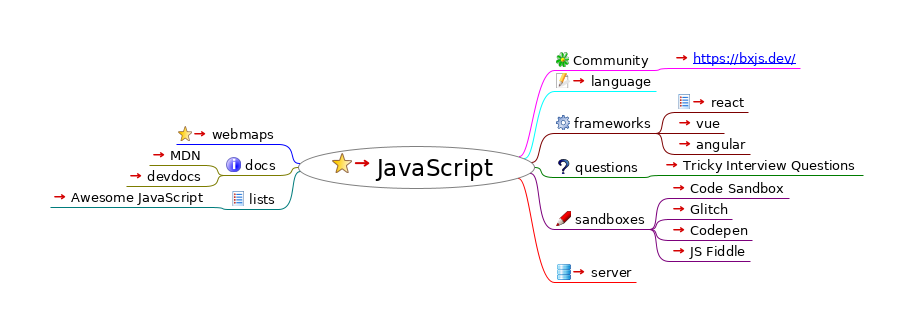
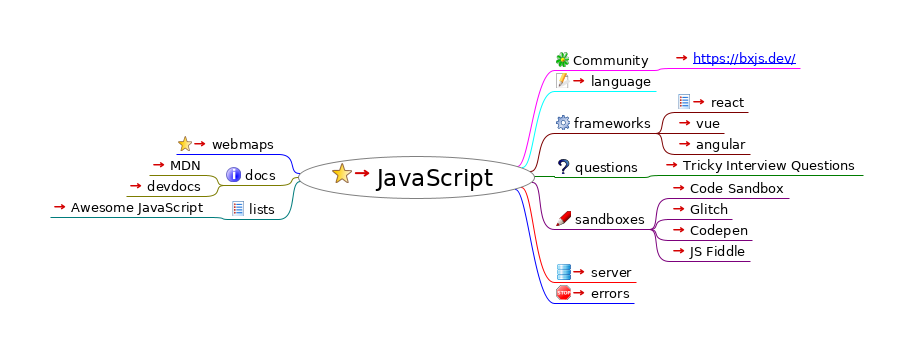
add iterators

Changed region(s): [[0.0613, 0.1506, 0.9507, 0.8735], [0.3987, 0.4217, 0.5214, 0.4518]]

diff --git a/index.html b/index.html
@@ -23,13 +23,13 @@
                    };
                };
           
-          --></script></head><body><h1>JavaScript</h1><div style="width:96%;  padding:2%;  margin-bottom:10px;  border: 0px;  text-align:center;  vertical-align:center;"><img src="index.html_files/image.png" style="margin-bottom:10px; &#9;border: 0px; &#9;text-align:center; &#9;vertical-align:center;" alt="Imagemap" usemap="#fm_imagemap" /></div><map name="fm_imagemap" id="fm_imagemap"><area shape="rect" href="../tech/index.html" alt="JavaScript" title="JavaScript" coords="298,146,535,189" />
-<area shape="rect" href="https://github.com/solidpayorg/webmaps/" alt="webmaps" title="webmaps" coords="176,126,279,144" />
-<area shape="rect" href="#FMID_1425964050FM" alt="docs" title="docs" coords="224,157,279,175" />
-<area shape="rect" href="https://developer.mozilla.org/en-US/docs/Web/JavaScript" alt="MDN" title="MDN" coords="149,147,205,165" />
-<area shape="rect" href="https://devdocs.io/javascript/" alt="devdocs" title="devdocs" coords="126,168,205,186" />
-<area shape="rect" href="#FMID_829378880FM" alt="lists" title="lists" coords="229,191,279,209" />
-<area shape="rect" href="https://github.com/sorrycc/awesome-javascript" alt="Awesome JavaScript" title="Awesome JavaScript" coords="50,189,210,207" />
+          --></script></head><body><h1>JavaScript</h1><div style="width:96%;  padding:2%;  margin-bottom:10px;  border: 0px;  text-align:center;  vertical-align:center;"><img src="index.html_files/image.png" style="margin-bottom:10px; &#9;border: 0px; &#9;text-align:center; &#9;vertical-align:center;" alt="Imagemap" usemap="#fm_imagemap" /></div><map name="fm_imagemap" id="fm_imagemap"><area shape="rect" href="../tech/index.html" alt="JavaScript" title="JavaScript" coords="298,156,535,199" />
+<area shape="rect" href="https://github.com/solidpayorg/webmaps/" alt="webmaps" title="webmaps" coords="176,136,279,154" />
+<area shape="rect" href="#FMID_1425964050FM" alt="docs" title="docs" coords="224,167,279,185" />
+<area shape="rect" href="https://developer.mozilla.org/en-US/docs/Web/JavaScript" alt="MDN" title="MDN" coords="149,157,205,175" />
+<area shape="rect" href="https://devdocs.io/javascript/" alt="devdocs" title="devdocs" coords="126,178,205,196" />
+<area shape="rect" href="#FMID_829378880FM" alt="lists" title="lists" coords="229,201,279,219" />
+<area shape="rect" href="https://github.com/sorrycc/awesome-javascript" alt="Awesome JavaScript" title="Awesome JavaScript" coords="50,199,210,217" />
 <area shape="rect" href="#FMID_849215328FM" alt="Community" title="Community" coords="554,52,653,70" />
 <area shape="rect" href="https://bxjs.dev/" alt="https://bxjs.dev/" title="https://bxjs.dev/" coords="672,50,800,68" />
 <area shape="rect" href="language.html" alt="language" title="language" coords="554,73,656,91" />
@@ -45,9 +45,10 @@
 <area shape="rect" href="https://codepen.io/" alt="Codepen" title="Codepen" coords="669,222,752,240" />
 <area shape="rect" href="https://jsfiddle.net/" alt="JS Fiddle" title="JS Fiddle" coords="669,243,750,261" />
 <area shape="rect" href="server/index.html" alt="server" title="server" coords="554,264,636,282" />
+<area shape="rect" href="https://blog.appsignal.com/2019/10/17/javascript-errors-an-exceptional-history.html" alt="errors" title="errors" coords="554,285,634,303" />
 </map>
 
 <div class="node"><img src="index.html_files/hide.png" class="hideshow" alt="hide" onClick="toggle(&quot;N65543&quot;)" id="imgN65543" /><img src="index.html_files/icons/bookmark.svg" alt="bookmark" /> <a id="FMID_110073400FM" /><div class="nodecontent" style="color:#000000;font-size:150%;"><a href="../tech/index.html">JavaScript</a> <a href="../tech/index.html"><img src="index.html_files/ilink.png" alt="User Link" style="border-width:0" /></a></div><div class="content" id="N65543"><div class="node"><img src="index.html_files/leaf.png" class="hideshow" alt="leaf" /><img src="index.html_files/icons/bookmark.svg" alt="bookmark" /> <a id="FMID_634574866FM" /><div class="nodecontent" style="color:#000000;font-size:83%;"><a href="https://github.com/solidpayorg/webmaps/">webmaps</a> <a href="https://github.com/solidpayorg/webmaps/"><img src="index.html_files/ilink.png" alt="User Link" style="border-width:0" /></a></div></div><div class="node"><img src="index.html_files/hide.png" class="hideshow" alt="hide" onClick="toggle(&quot;N66488&quot;)" id="imgN66488" /><img src="index.html_files/icons/info.svg" alt="info" /> <a id="FMID_1425964050FM" /><div class="nodecontent" style="color:#000000;font-size:83%;">docs</div><div class="content" id="N66488"><div class="node"><img src="index.html_files/leaf.png" class="hideshow" alt="leaf" /><a id="FMID_773205118FM" /><div class="nodecontent" style="color:#000000;font-size:83%;"><a href="https://developer.mozilla.org/en-US/docs/Web/JavaScript">MDN</a> <a href="https://developer.mozilla.org/en-US/docs/Web/JavaScript"><img src="index.html_files/ilink.png" alt="User Link" style="border-width:0" /></a></div></div><div class="node"><img src="index.html_files/leaf.png" class="hideshow" alt="leaf" /><a id="FMID_83129282FM" /><div class="nodecontent" style="color:#000000;font-size:83%;"><a href="https://devdocs.io/javascript/">devdocs</a> <a href="https://devdocs.io/javascript/"><img src="index.html_files/ilink.png" alt="User Link" style="border-width:0" /></a></div></div></div></div><div class="node"><img src="index.html_files/hide.png" class="hideshow" alt="hide" onClick="toggle(&quot;N66604&quot;)" id="imgN66604" /><img src="index.html_files/icons/list.svg" alt="list" /> <a id="FMID_829378880FM" /><div class="nodecontent" style="color:#000000;font-size:83%;">lists</div><div class="content" id="N66604"><div class="node"><img src="index.html_files/leaf.png" class="hideshow" alt="leaf" /><a id="FMID_157748484FM" /><div class="nodecontent" style="color:#000000;font-size:83%;"><a href="https://github.com/sorrycc/awesome-javascript">Awesome JavaScript</a> <a href="https://github.com/sorrycc/awesome-javascript"><img src="index.html_files/ilink.png" alt="User Link" style="border-width:0" /></a></div></div></div></div><div class="node"><img src="index.html_files/hide.png" class="hideshow" alt="hide" onClick="toggle(&quot;N66683&quot;)" id="imgN66683" /><img src="index.html_files/icons/licq.svg" alt="licq" /> <a id="FMID_849215328FM" /><div class="nodecontent" style="color:#000000;font-size:83%;">Community</div><div class="content" id="N66683"><div class="node"><img src="index.html_files/leaf.png" class="hideshow" alt="leaf" /><a id="FMID_1384859362FM" /><div class="nodecontent" style="color:#000000;font-size:83%;"><a href="https://bxjs.dev/">
     <a http-equiv="content-type" content="text/html; charset=utf-8" href="https://bxjs.dev/">https://bxjs.dev/</a>
-  </a> <a href="https://bxjs.dev/"><img src="index.html_files/ilink.png" alt="User Link" style="border-width:0" /></a></div></div></div></div><div class="node"><img src="index.html_files/leaf.png" class="hideshow" alt="leaf" /><img src="index.html_files/icons/edit.svg" alt="edit" /> <a id="FMID_1566689685FM" /><div class="nodecontent" style="color:#000000;font-size:83%;"><a href="language.html">language</a> <a href="language.html"><img src="index.html_files/ilink.png" alt="User Link" style="border-width:0" /></a></div></div><div class="node"><img src="index.html_files/hide.png" class="hideshow" alt="hide" onClick="toggle(&quot;N66823&quot;)" id="imgN66823" /><img src="index.html_files/icons/executable.svg" alt="executable" /> <a id="FMID_153818301FM" /><div class="nodecontent" style="color:#000000;font-size:83%;">frameworks</div><div class="content" id="N66823"><div class="node"><img src="index.html_files/leaf.png" class="hideshow" alt="leaf" /><img src="index.html_files/icons/list.svg" alt="list" /> <a id="FMID_921980201FM" /><div class="nodecontent" style="color:#000000;font-size:83%;"><a href="react/index.html">react</a> <a href="react/index.html"><img src="index.html_files/ilink.png" alt="User Link" style="border-width:0" /></a></div></div><div class="node"><img src="index.html_files/leaf.png" class="hideshow" alt="leaf" /><a id="FMID_850712897FM" /><div class="nodecontent" style="color:#000000;font-size:83%;"><a href="https://vuejs.org/">vue</a> <a href="https://vuejs.org/"><img src="index.html_files/ilink.png" alt="User Link" style="border-width:0" /></a></div></div><div class="node"><img src="index.html_files/leaf.png" class="hideshow" alt="leaf" /><a id="FMID_101804111FM" /><div class="nodecontent" style="color:#000000;font-size:83%;"><a href="https://angular.io/">angular</a> <a href="https://angular.io/"><img src="index.html_files/ilink.png" alt="User Link" style="border-width:0" /></a></div></div></div></div><div class="node"><img src="index.html_files/hide.png" class="hideshow" alt="hide" onClick="toggle(&quot;N66981&quot;)" id="imgN66981" /><img src="index.html_files/icons/help.svg" alt="help" /> <a id="FMID_1450636763FM" /><div class="nodecontent" style="color:#000000;font-size:83%;">questions</div><div class="content" id="N66981"><div class="node"><img src="index.html_files/leaf.png" class="hideshow" alt="leaf" /><a id="FMID_83102648FM" /><div class="nodecontent" style="color:#000000;font-size:83%;"><a href="https://dmitripavlutin.com/simple-but-tricky-javascript-interview-questions/">Tricky Interview Questions</a> <a href="https://dmitripavlutin.com/simple-but-tricky-javascript-interview-questions/"><img src="index.html_files/ilink.png" alt="User Link" style="border-width:0" /></a></div></div></div></div><div class="node"><img src="index.html_files/hide.png" class="hideshow" alt="hide" onClick="toggle(&quot;N67060&quot;)" id="imgN67060" /><img src="index.html_files/icons/pencil.svg" alt="pencil" /> <a id="FMID_1460537766FM" /><div class="nodecontent" style="color:#000000;font-size:83%;">sandboxes</div><div class="content" id="N67060"><div class="node"><img src="index.html_files/leaf.png" class="hideshow" alt="leaf" /><a id="FMID_899668548FM" /><div class="nodecontent" style="color:#000000;font-size:83%;"><a href="https://codesandbox.io/">Code Sandbox</a> <a href="https://codesandbox.io/"><img src="index.html_files/ilink.png" alt="User Link" style="border-width:0" /></a></div></div><div class="node"><img src="index.html_files/leaf.png" class="hideshow" alt="leaf" /><a id="FMID_1286093091FM" /><div class="nodecontent" style="color:#000000;font-size:83%;"><a href="https://glitch.com/">Glitch</a> <a href="https://glitch.com/"><img src="index.html_files/ilink.png" alt="User Link" style="border-width:0" /></a></div></div><div class="node"><img src="index.html_files/leaf.png" class="hideshow" alt="leaf" /><a id="FMID_942460316FM" /><div class="nodecontent" style="color:#000000;font-size:83%;"><a href="https://codepen.io/">Codepen</a> <a href="https://codepen.io/"><img src="index.html_files/ilink.png" alt="User Link" style="border-width:0" /></a></div></div><div class="node"><img src="index.html_files/leaf.png" class="hideshow" alt="leaf" /><a id="FMID_1150601009FM" /><div class="nodecontent" style="color:#000000;font-size:83%;"><a href="https://jsfiddle.net/">JS Fiddle</a> <a href="https://jsfiddle.net/"><img src="index.html_files/ilink.png" alt="User Link" style="border-width:0" /></a></div></div></div></div><div class="node"><img src="index.html_files/leaf.png" class="hideshow" alt="leaf" /><img src="index.html_files/icons/16x16-free-application-icons/png/16x16/Database.png" alt="16x16-free-application-icons/png/16x16/Database" /> <a id="FMID_1516168898FM" /><div class="nodecontent" style="color:#000000;font-size:83%;"><a href="server/index.html">server</a> <a href="server/index.html"><img src="index.html_files/ilink.png" alt="User Link" style="border-width:0" /></a></div></div></div></div>
+  </a> <a href="https://bxjs.dev/"><img src="index.html_files/ilink.png" alt="User Link" style="border-width:0" /></a></div></div></div></div><div class="node"><img src="index.html_files/leaf.png" class="hideshow" alt="leaf" /><img src="index.html_files/icons/edit.svg" alt="edit" /> <a id="FMID_1566689685FM" /><div class="nodecontent" style="color:#000000;font-size:83%;"><a href="language.html">language</a> <a href="language.html"><img src="index.html_files/ilink.png" alt="User Link" style="border-width:0" /></a></div></div><div class="node"><img src="index.html_files/hide.png" class="hideshow" alt="hide" onClick="toggle(&quot;N66823&quot;)" id="imgN66823" /><img src="index.html_files/icons/executable.svg" alt="executable" /> <a id="FMID_153818301FM" /><div class="nodecontent" style="color:#000000;font-size:83%;">frameworks</div><div class="content" id="N66823"><div class="node"><img src="index.html_files/leaf.png" class="hideshow" alt="leaf" /><img src="index.html_files/icons/list.svg" alt="list" /> <a id="FMID_921980201FM" /><div class="nodecontent" style="color:#000000;font-size:83%;"><a href="react/index.html">react</a> <a href="react/index.html"><img src="index.html_files/ilink.png" alt="User Link" style="border-width:0" /></a></div></div><div class="node"><img src="index.html_files/leaf.png" class="hideshow" alt="leaf" /><a id="FMID_850712897FM" /><div class="nodecontent" style="color:#000000;font-size:83%;"><a href="https://vuejs.org/">vue</a> <a href="https://vuejs.org/"><img src="index.html_files/ilink.png" alt="User Link" style="border-width:0" /></a></div></div><div class="node"><img src="index.html_files/leaf.png" class="hideshow" alt="leaf" /><a id="FMID_101804111FM" /><div class="nodecontent" style="color:#000000;font-size:83%;"><a href="https://angular.io/">angular</a> <a href="https://angular.io/"><img src="index.html_files/ilink.png" alt="User Link" style="border-width:0" /></a></div></div></div></div><div class="node"><img src="index.html_files/hide.png" class="hideshow" alt="hide" onClick="toggle(&quot;N66981&quot;)" id="imgN66981" /><img src="index.html_files/icons/help.svg" alt="help" /> <a id="FMID_1450636763FM" /><div class="nodecontent" style="color:#000000;font-size:83%;">questions</div><div class="content" id="N66981"><div class="node"><img src="index.html_files/leaf.png" class="hideshow" alt="leaf" /><a id="FMID_83102648FM" /><div class="nodecontent" style="color:#000000;font-size:83%;"><a href="https://dmitripavlutin.com/simple-but-tricky-javascript-interview-questions/">Tricky Interview Questions</a> <a href="https://dmitripavlutin.com/simple-but-tricky-javascript-interview-questions/"><img src="index.html_files/ilink.png" alt="User Link" style="border-width:0" /></a></div></div></div></div><div class="node"><img src="index.html_files/hide.png" class="hideshow" alt="hide" onClick="toggle(&quot;N67060&quot;)" id="imgN67060" /><img src="index.html_files/icons/pencil.svg" alt="pencil" /> <a id="FMID_1460537766FM" /><div class="nodecontent" style="color:#000000;font-size:83%;">sandboxes</div><div class="content" id="N67060"><div class="node"><img src="index.html_files/leaf.png" class="hideshow" alt="leaf" /><a id="FMID_899668548FM" /><div class="nodecontent" style="color:#000000;font-size:83%;"><a href="https://codesandbox.io/">Code Sandbox</a> <a href="https://codesandbox.io/"><img src="index.html_files/ilink.png" alt="User Link" style="border-width:0" /></a></div></div><div class="node"><img src="index.html_files/leaf.png" class="hideshow" alt="leaf" /><a id="FMID_1286093091FM" /><div class="nodecontent" style="color:#000000;font-size:83%;"><a href="https://glitch.com/">Glitch</a> <a href="https://glitch.com/"><img src="index.html_files/ilink.png" alt="User Link" style="border-width:0" /></a></div></div><div class="node"><img src="index.html_files/leaf.png" class="hideshow" alt="leaf" /><a id="FMID_942460316FM" /><div class="nodecontent" style="color:#000000;font-size:83%;"><a href="https://codepen.io/">Codepen</a> <a href="https://codepen.io/"><img src="index.html_files/ilink.png" alt="User Link" style="border-width:0" /></a></div></div><div class="node"><img src="index.html_files/leaf.png" class="hideshow" alt="leaf" /><a id="FMID_1150601009FM" /><div class="nodecontent" style="color:#000000;font-size:83%;"><a href="https://jsfiddle.net/">JS Fiddle</a> <a href="https://jsfiddle.net/"><img src="index.html_files/ilink.png" alt="User Link" style="border-width:0" /></a></div></div></div></div><div class="node"><img src="index.html_files/leaf.png" class="hideshow" alt="leaf" /><img src="index.html_files/icons/16x16-free-application-icons/png/16x16/Database.png" alt="16x16-free-application-icons/png/16x16/Database" /> <a id="FMID_1516168898FM" /><div class="nodecontent" style="color:#000000;font-size:83%;"><a href="server/index.html">server</a> <a href="server/index.html"><img src="index.html_files/ilink.png" alt="User Link" style="border-width:0" /></a></div></div><div class="node"><img src="index.html_files/leaf.png" class="hideshow" alt="leaf" /><img src="index.html_files/icons/stop-sign.svg" alt="stop-sign" /> <a id="FMID_437549538FM" /><div class="nodecontent" style="color:#000000;font-size:83%;"><a href="https://blog.appsignal.com/2019/10/17/javascript-errors-an-exceptional-history.html">errors</a> <a href="https://blog.appsignal.com/2019/10/17/javascript-errors-an-exceptional-history.html"><img src="index.html_files/ilink.png" alt="User Link" style="border-width:0" /></a></div></div></div></div>
 </body></html>

diff --git a/language.html b/language.html
@@ -23,8 +23,9 @@
                    };
                };
           
-          --></script></head><body><h1>language</h1><div style="width:96%;  padding:2%;  margin-bottom:10px;  border: 0px;  text-align:center;  vertical-align:center;"><img src="language.html_files/image.png" style="margin-bottom:10px; &#9;border: 0px; &#9;text-align:center; &#9;vertical-align:center;" alt="Imagemap" usemap="#fm_imagemap" /></div><map name="fm_imagemap" id="fm_imagemap"><area shape="rect" href="index.html" alt="language" title="language" coords="222,70,464,113" />
-<area shape="rect" href="arrays.html" alt="arrays" title="arrays" coords="483,82,564,100" />
+          --></script></head><body><h1>language</h1><div style="width:96%;  padding:2%;  margin-bottom:10px;  border: 0px;  text-align:center;  vertical-align:center;"><img src="language.html_files/image.png" style="margin-bottom:10px; &#9;border: 0px; &#9;text-align:center; &#9;vertical-align:center;" alt="Imagemap" usemap="#fm_imagemap" /></div><map name="fm_imagemap" id="fm_imagemap"><area shape="rect" href="index.html" alt="language" title="language" coords="222,70,463,113" />
+<area shape="rect" href="arrays.html" alt="arrays" title="arrays" coords="482,72,563,90" />
+<area shape="rect" href="https://blog.appsignal.com/2019/07/16/javascript-iterators-and-iterables.html" alt="iterators" title="iterators" coords="482,93,579,111" />
 <area shape="rect" href="#FMID_808607355FM" alt="links" title="links" coords="149,50,203,68" />
 <area shape="rect" href="#FMID_1425964050FM" alt="docs" title="docs" coords="148,81,203,99" />
 <area shape="rect" href="https://developer.mozilla.org/en-US/docs/Web/JavaScript" alt="MDN" title="MDN" coords="73,71,129,89" />
@@ -33,5 +34,5 @@
 <area shape="rect" href="#FMID_1174764408FM" alt="#JavaScrpt" title="#JavaScrpt" coords="53,113,131,131" />
 </map>
 
-<div class="node"><img src="language.html_files/hide.png" class="hideshow" alt="hide" onClick="toggle(&quot;N65543&quot;)" id="imgN65543" /><img src="language.html_files/icons/bookmark.svg" alt="bookmark" /> <a id="FMID_1831615648FM" /><div class="nodecontent" style="color:#000000;font-size:150%;"><a href="index.html">language</a> <a href="index.html"><img src="language.html_files/ilink.png" alt="User Link" style="border-width:0" /></a></div><div class="content" id="N65543"><div class="node"><img src="language.html_files/leaf.png" class="hideshow" alt="leaf" /><img src="language.html_files/icons/list.svg" alt="list" /> <a id="FMID_1284928462FM" /><div class="nodecontent" style="color:#000000;font-size:83%;"><a href="arrays.html">arrays</a> <a href="arrays.html"><img src="language.html_files/ilink.png" alt="User Link" style="border-width:0" /></a></div></div><div class="node"><img src="language.html_files/leaf.png" class="hideshow" alt="leaf" /><img src="language.html_files/icons/attach.svg" alt="attach" /> <a id="FMID_808607355FM" /><div class="nodecontent" style="color:#000000;font-size:83%;">links</div></div><div class="node"><img src="language.html_files/hide.png" class="hideshow" alt="hide" onClick="toggle(&quot;N66530&quot;)" id="imgN66530" /><img src="language.html_files/icons/info.svg" alt="info" /> <a id="FMID_1425964050FM" /><div class="nodecontent" style="color:#000000;font-size:83%;">docs</div><div class="content" id="N66530"><div class="node"><img src="language.html_files/leaf.png" class="hideshow" alt="leaf" /><a id="FMID_773205118FM" /><div class="nodecontent" style="color:#000000;font-size:83%;"><a href="https://developer.mozilla.org/en-US/docs/Web/JavaScript">MDN</a> <a href="https://developer.mozilla.org/en-US/docs/Web/JavaScript"><img src="language.html_files/ilink.png" alt="User Link" style="border-width:0" /></a></div></div><div class="node"><img src="language.html_files/leaf.png" class="hideshow" alt="leaf" /><a id="FMID_83129282FM" /><div class="nodecontent" style="color:#000000;font-size:83%;"><a href="https://devdocs.io/javascript/">devdocs</a> <a href="https://devdocs.io/javascript/"><img src="language.html_files/ilink.png" alt="User Link" style="border-width:0" /></a></div></div></div></div><div class="node"><img src="language.html_files/hide.png" class="hideshow" alt="hide" onClick="toggle(&quot;N66646&quot;)" id="imgN66646" /><img src="language.html_files/icons/hashtag.png" alt="hashtag" /> <a id="FMID_466759422FM" /><div class="nodecontent" style="color:#000000;font-size:83%;">tags</div><div class="content" id="N66646"><div class="node"><img src="language.html_files/leaf.png" class="hideshow" alt="leaf" /><a id="FMID_1174764408FM" /><div class="nodecontent" style="color:#000000;font-size:83%;">#JavaScrpt</div></div></div></div></div></div>
+<div class="node"><img src="language.html_files/hide.png" class="hideshow" alt="hide" onClick="toggle(&quot;N65543&quot;)" id="imgN65543" /><img src="language.html_files/icons/bookmark.svg" alt="bookmark" /> <a id="FMID_1831615648FM" /><div class="nodecontent" style="color:#000000;font-size:150%;"><a href="index.html">language</a> <a href="index.html"><img src="language.html_files/ilink.png" alt="User Link" style="border-width:0" /></a></div><div class="content" id="N65543"><div class="node"><img src="language.html_files/leaf.png" class="hideshow" alt="leaf" /><img src="language.html_files/icons/list.svg" alt="list" /> <a id="FMID_1284928462FM" /><div class="nodecontent" style="color:#000000;font-size:83%;"><a href="arrays.html">arrays</a> <a href="arrays.html"><img src="language.html_files/ilink.png" alt="User Link" style="border-width:0" /></a></div></div><div class="node"><img src="language.html_files/leaf.png" class="hideshow" alt="leaf" /><img src="language.html_files/icons/16x16-free-application-icons/png/16x16/List.png" alt="16x16-free-application-icons/png/16x16/List" /> <a id="FMID_828865921FM" /><div class="nodecontent" style="color:#000000;font-size:83%;"><a href="https://blog.appsignal.com/2019/07/16/javascript-iterators-and-iterables.html">iterators</a> <a href="https://blog.appsignal.com/2019/07/16/javascript-iterators-and-iterables.html"><img src="language.html_files/ilink.png" alt="User Link" style="border-width:0" /></a></div></div><div class="node"><img src="language.html_files/leaf.png" class="hideshow" alt="leaf" /><img src="language.html_files/icons/attach.svg" alt="attach" /> <a id="FMID_808607355FM" /><div class="nodecontent" style="color:#000000;font-size:83%;">links</div></div><div class="node"><img src="language.html_files/hide.png" class="hideshow" alt="hide" onClick="toggle(&quot;N66573&quot;)" id="imgN66573" /><img src="language.html_files/icons/info.svg" alt="info" /> <a id="FMID_1425964050FM" /><div class="nodecontent" style="color:#000000;font-size:83%;">docs</div><div class="content" id="N66573"><div class="node"><img src="language.html_files/leaf.png" class="hideshow" alt="leaf" /><a id="FMID_773205118FM" /><div class="nodecontent" style="color:#000000;font-size:83%;"><a href="https://developer.mozilla.org/en-US/docs/Web/JavaScript">MDN</a> <a href="https://developer.mozilla.org/en-US/docs/Web/JavaScript"><img src="language.html_files/ilink.png" alt="User Link" style="border-width:0" /></a></div></div><div class="node"><img src="language.html_files/leaf.png" class="hideshow" alt="leaf" /><a id="FMID_83129282FM" /><div class="nodecontent" style="color:#000000;font-size:83%;"><a href="https://devdocs.io/javascript/">devdocs</a> <a href="https://devdocs.io/javascript/"><img src="language.html_files/ilink.png" alt="User Link" style="border-width:0" /></a></div></div></div></div><div class="node"><img src="language.html_files/hide.png" class="hideshow" alt="hide" onClick="toggle(&quot;N66689&quot;)" id="imgN66689" /><img src="language.html_files/icons/hashtag.png" alt="hashtag" /> <a id="FMID_466759422FM" /><div class="nodecontent" style="color:#000000;font-size:83%;">tags</div><div class="content" id="N66689"><div class="node"><img src="language.html_files/leaf.png" class="hideshow" alt="leaf" /><a id="FMID_1174764408FM" /><div class="nodecontent" style="color:#000000;font-size:83%;">#JavaScrpt</div></div></div></div></div></div>
 </body></html>

diff --git a/index.mm b/index.mm
@@ -64,7 +64,7 @@
 </stylenode>
 </map_styles>
 </hook>
-<hook NAME="AutomaticEdgeColor" COUNTER="12" RULE="ON_BRANCH_CREATION"/>
+<hook NAME="AutomaticEdgeColor" COUNTER="13" RULE="ON_BRANCH_CREATION"/>
 <node TEXT="webmaps" POSITION="left" ID="ID_634574866" CREATED="1570294548787" MODIFIED="1572498300535" LINK="https://github.com/solidpayorg/webmaps/">
 <icon BUILTIN="bookmark"/>
 <edge COLOR="#0000ff"/>
@@ -125,6 +125,10 @@
 <node TEXT="server" POSITION="right" ID="ID_1516168898" CREATED="1573030715288" MODIFIED="1573030784377" LINK="server/index.mm">
 <icon BUILTIN="16x16-free-application-icons/png/16x16/Database"/>
 <edge COLOR="#ff0000"/>
+</node>
+<node TEXT="errors" POSITION="right" ID="ID_437549538" CREATED="1573042933206" MODIFIED="1573042980995" LINK="https://blog.appsignal.com/2019/10/17/javascript-errors-an-exceptional-history.html">
+<icon BUILTIN="stop-sign"/>
+<edge COLOR="#0000ff"/>
 </node>
 </node>
 </map>

diff --git a/language.mm b/language.mm
@@ -64,10 +64,14 @@
 </stylenode>
 </map_styles>
 </hook>
-<hook NAME="AutomaticEdgeColor" COUNTER="6" RULE="ON_BRANCH_CREATION"/>
+<hook NAME="AutomaticEdgeColor" COUNTER="7" RULE="ON_BRANCH_CREATION"/>
 <node TEXT="arrays" POSITION="right" ID="ID_1284928462" CREATED="1571980169123" MODIFIED="1572498505851" LINK="arrays.mm">
 <icon BUILTIN="list"/>
 <edge COLOR="#7c0000"/>
+</node>
+<node TEXT="iterators" POSITION="right" ID="ID_828865921" CREATED="1573045611406" MODIFIED="1573045622975" LINK="https://blog.appsignal.com/2019/07/16/javascript-iterators-and-iterables.html">
+<icon BUILTIN="16x16-free-application-icons/png/16x16/List"/>
+<edge COLOR="#00007c"/>
 </node>
 <node TEXT="links" POSITION="left" ID="ID_808607355" CREATED="1570968728188" MODIFIED="1570968728190">
 <icon BUILTIN="attach"/>
